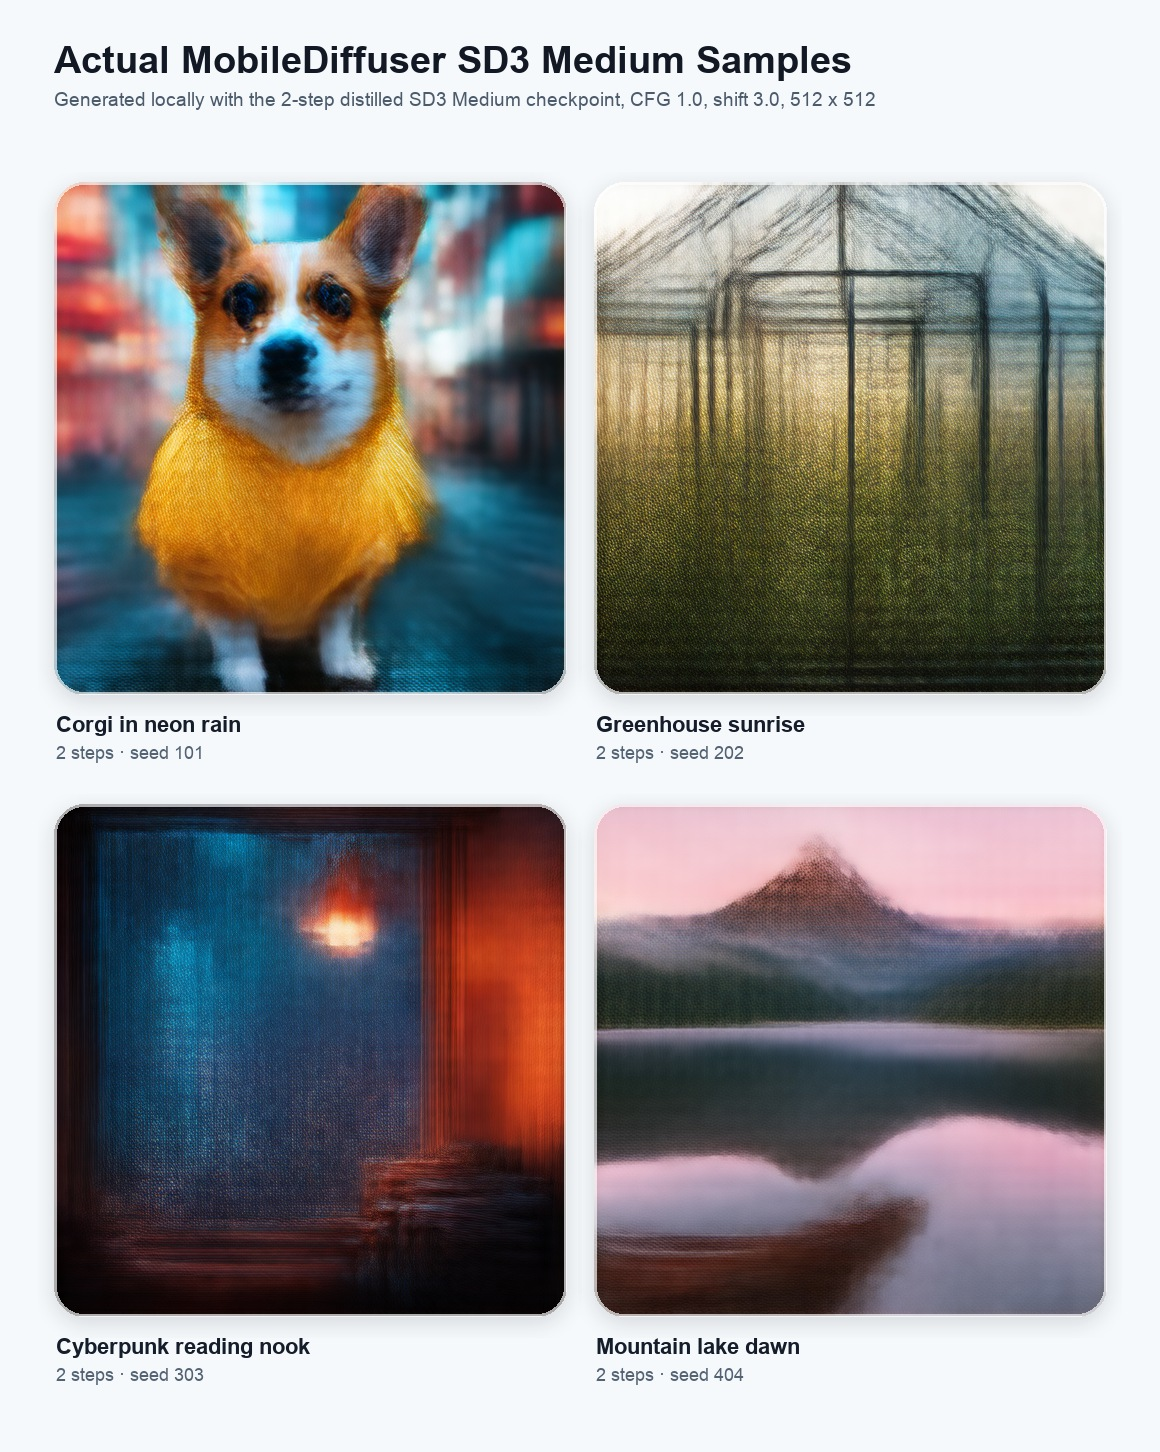
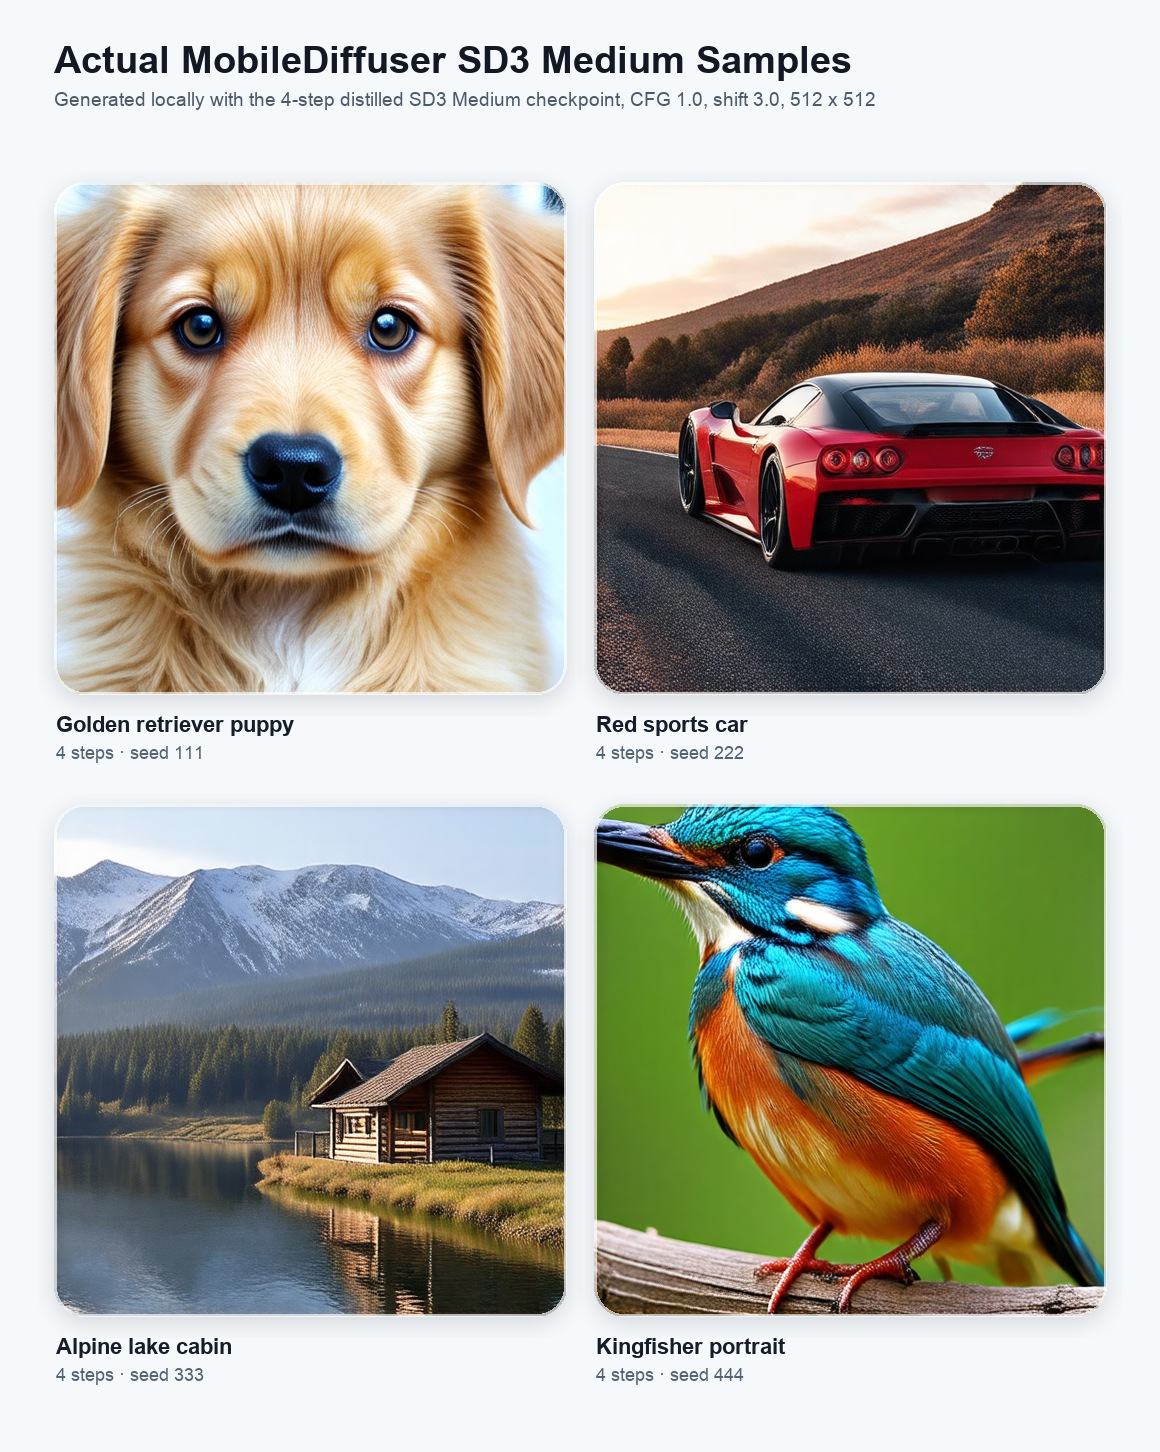
Update showcase with sharper 4-step samples

diff --git a/README.md b/README.md
@@ -16,7 +16,7 @@ not contain model weights or compiled Core ML model bundles.
 ## Screenshots
 
 <p>
-  <img src="docs/images/showcase-collage.jpg" alt="Actual MobileDiffuser SD3 Medium 2-step local generation samples">
+  <img src="docs/images/showcase-collage.jpg" alt="Actual MobileDiffuser SD3 Medium 4-step local generation samples">
 </p>
 
 | SD3 Medium 4-step | SD3 Medium 2-step |